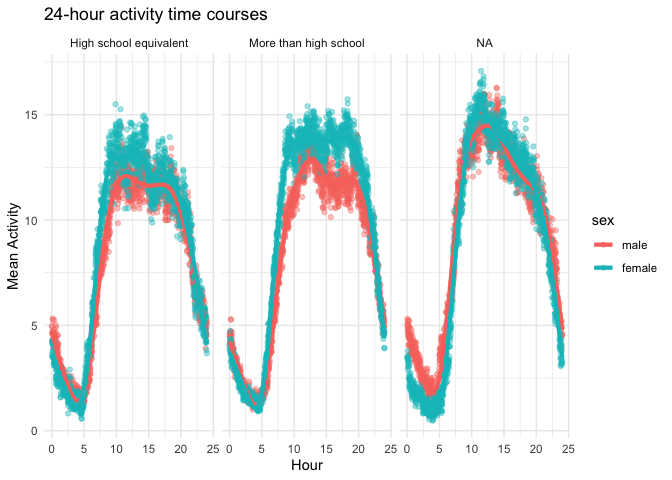
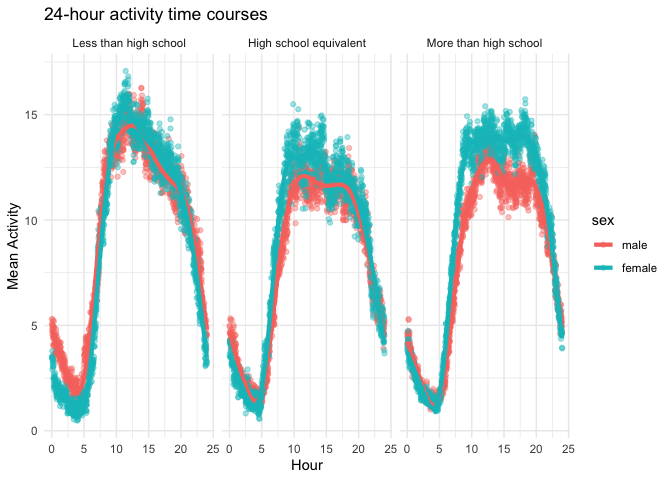
plots

diff --git a/p8105_hw3_sk5855.md b/p8105_hw3_sk5855.md
@@ -51,6 +51,7 @@ analysis and may introduce bias if missingness varies systematically
 across stations or time periods
 
 ``` r
+#problem 1 question 1
 ny_noaa_clean = ny_noaa |>
   janitor::clean_names() |>
   mutate(
@@ -86,6 +87,7 @@ ny_noaa_clean |>
 areas, most days of the year are not snowing.
 
 ``` r
+#problem 1 question 2
 temp_summary = ny_noaa_clean |>
   filter(month == 1| month == 7) |>
   group_by(id, month, year) |>
@@ -128,7 +130,7 @@ rise-fall pattern over 4 to 5 years. A potential outlier appears in July
 around 1988.
 
 ``` r
-#(i)
+#problem 1 question 3
 p1 = ny_noaa_clean |>
   filter(!is.na(tmax),!is.na(tmin)) |>
   ggplot(aes(x = tmin, y = tmax)) +
@@ -162,6 +164,7 @@ p1 + p2
 ![](p8105_hw3_sk5855_files/figure-gfm/problem%201%20question%203-1.png)<!-- -->
 
 ``` r
+#problem 2
 #load and merge dataset
 accel_df = read_csv(
   file = "data/nhanes_accel.csv",
@@ -192,7 +195,7 @@ covar_df = read_csv(
       TRUE ~ NA_character_
     ),
     education = case_when(
-      education == 1 ~ "less than high school",
+      education == 1 ~ "Less than high school",
       education == 2 ~ "High school equivalent",
       education == 3 ~ "More than high school",
       TRUE ~ NA_character_
@@ -242,9 +245,9 @@ nhanes_df |>
 
 | education              | male | female |
 |:-----------------------|-----:|-------:|
+| Less than high school  |   27 |     28 |
 | High school equivalent |   35 |     23 |
 | More than high school  |   56 |     59 |
-| NA                     |   27 |     28 |
 
 Number of participants by education and sex
 
@@ -271,6 +274,7 @@ has a much lower median age in this category. For the other two
 education levels, the distributions of sex are similar generally.
 
 ``` r
+#problem 2 activity plot
 #plot of total activity
 nhanes_df |>
   mutate(
@@ -297,6 +301,7 @@ in the less than high school and more than high school groups. The more
 than high school group shows the slowest decline in activity with age.
 
 ``` r
+#problem 2 24 hour activity
 #plot of 24 hour activity
 activity_long = nhanes_df |>
     pivot_longer(
@@ -350,6 +355,7 @@ peak, while the more than high school group maintains relatively stable
 activity levels throughout the daytime.
 
 ``` r
+#problem 3
 Jan2024_df = read_csv(
   file = "data/Jan 2024 Citi.csv",
   na = c("",".","NA")
@@ -513,6 +519,7 @@ between January and July narrowed considerably in 2024, suggesting a
 reduction in seasonal differences in ride duration.
 
 ``` r
+#problem 3 last part
 citibike_df |>
   filter(year == 2024) |>
   ggplot(aes(x = month, y = duration, color = member_casual)) +
